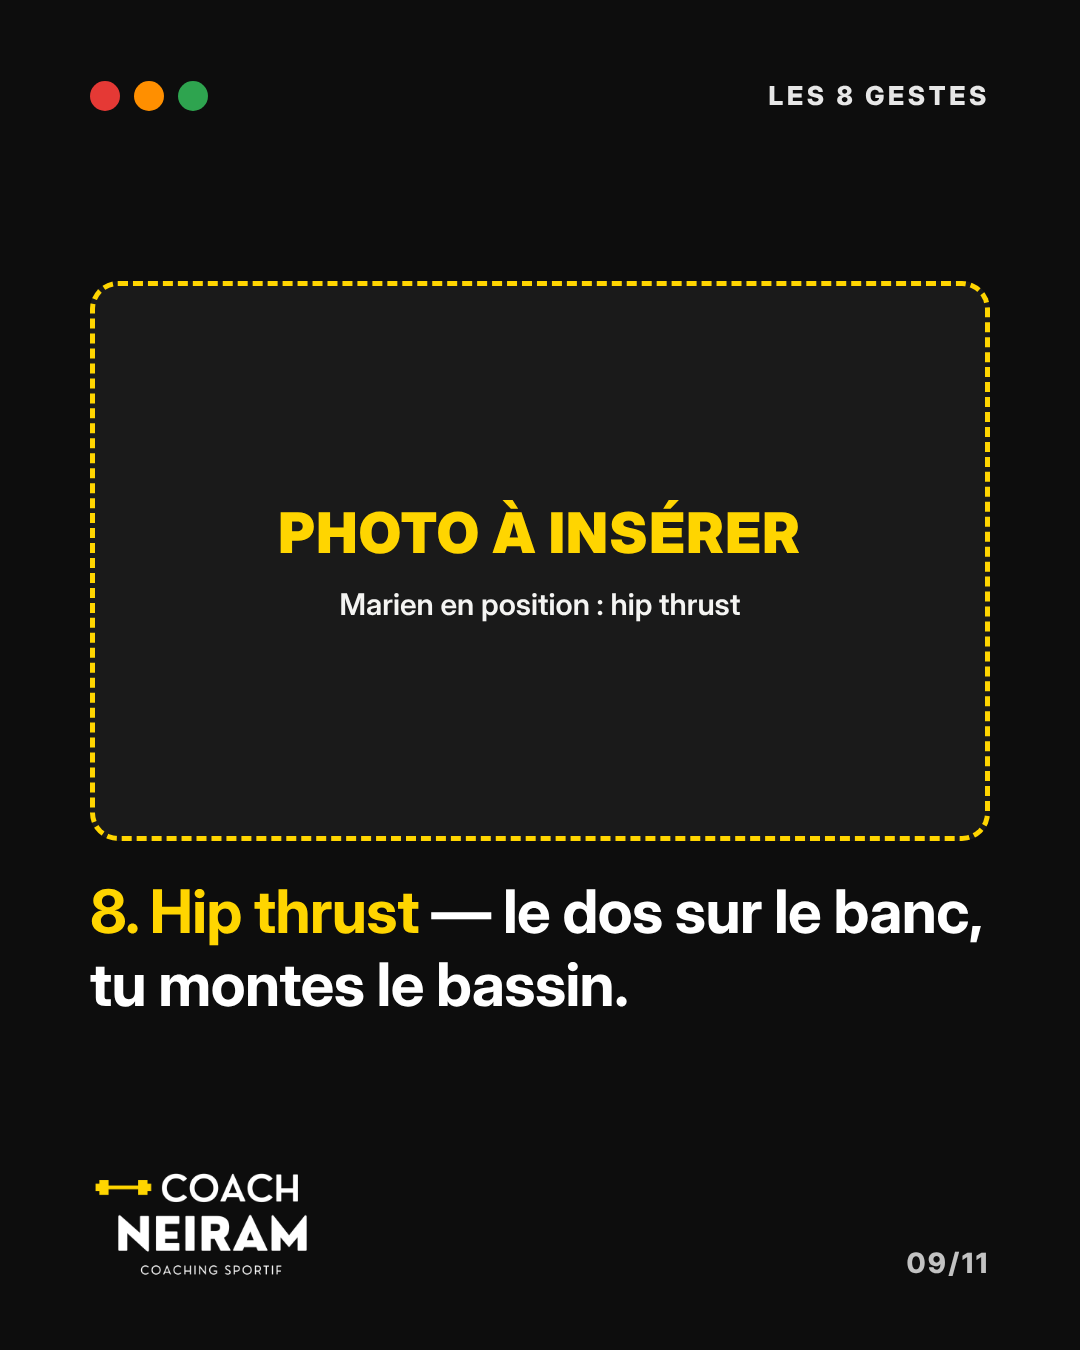
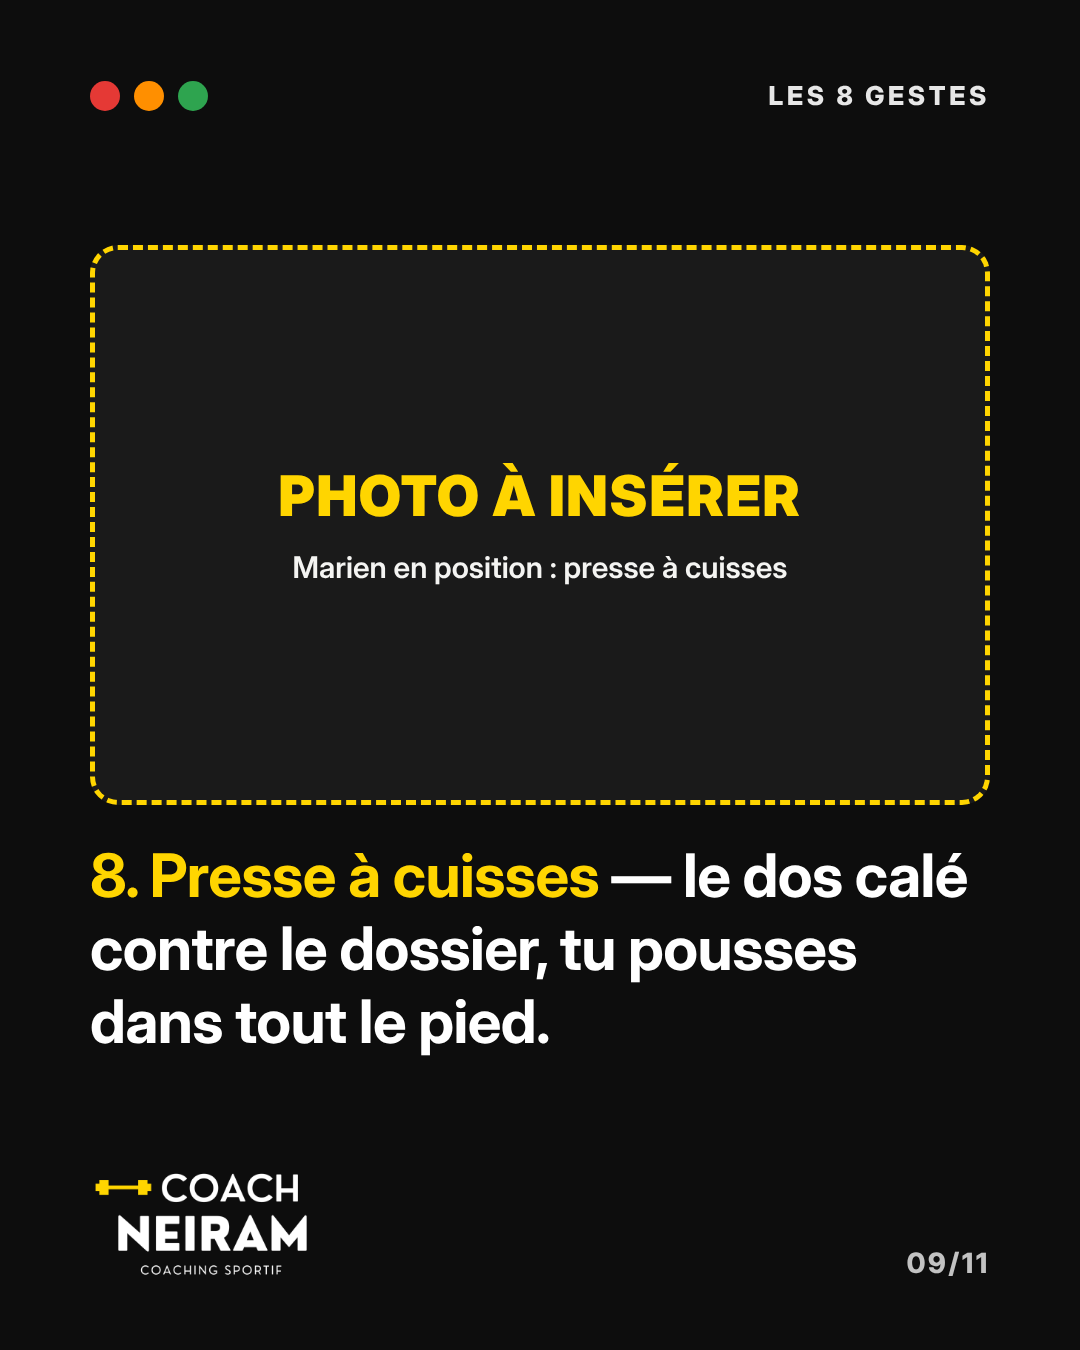
Feu Vert : geste n° 8 « Presse à cuisses » à la place du hip thrust
Décision de Marien du 18/11/2026.
- feu-vert.html : liste des 8 gestes, Passeport d'exemple, semaine 3 du déroulé.
- feu-vert/visuels/P06_09.png : slide 9 du carrousel « Les 8 gestes » régénérée (même gabarit 1080 × 1350).

Claude-Session: https://claude.ai/code/session_01F4D7Lo9ySbD2mJushm8BNZ

Changed region(s): [[0.0611, 0.1867, 0.9167, 0.7778], [0.2444, 0.3422, 0.7639, 0.4667]]

diff --git a/feu-vert.html b/feu-vert.html
@@ -395,7 +395,7 @@
       <li><span class="name">Fente</span><span class="lights is-r" role="img" aria-label="Démarre au rouge"><i class="r"></i><i class="o"></i><i class="g"></i></span></li>
       <li><span class="name">Gainage</span><span class="lights is-r" role="img" aria-label="Démarre au rouge"><i class="r"></i><i class="o"></i><i class="g"></i></span></li>
       <li><span class="name">Tirage (poulie)</span><span class="lights is-r" role="img" aria-label="Démarre au rouge"><i class="r"></i><i class="o"></i><i class="g"></i></span></li>
-      <li><span class="name">Hip thrust</span><span class="lights is-r" role="img" aria-label="Démarre au rouge"><i class="r"></i><i class="o"></i><i class="g"></i></span></li>
+      <li><span class="name">Presse à cuisses</span><span class="lights is-r" role="img" aria-label="Démarre au rouge"><i class="r"></i><i class="o"></i><i class="g"></i></span></li>
     </ol>
 
     <h3>Comment un geste passe au vert :</h3>
@@ -437,7 +437,7 @@
           <li>Fente <span class="lights is-o" role="img" aria-label="orange"><i class="r"></i><i class="o"></i><i class="g"></i></span></li>
           <li>Gainage <span class="lights is-o" role="img" aria-label="orange"><i class="r"></i><i class="o"></i><i class="g"></i></span></li>
           <li>Tirage (poulie) <span class="lights is-r" role="img" aria-label="rouge"><i class="r"></i><i class="o"></i><i class="g"></i></span></li>
-          <li>Hip thrust <span class="lights is-r" role="img" aria-label="rouge"><i class="r"></i><i class="o"></i><i class="g"></i></span></li>
+          <li>Presse à cuisses <span class="lights is-r" role="img" aria-label="rouge"><i class="r"></i><i class="o"></i><i class="g"></i></span></li>
         </ul>
         <div class="level">
           <div class="lv-top"><span>3 gestes au vert</span><span>Niveau 2 — Bases</span></div>
@@ -499,7 +499,7 @@
     <ol class="timeline">
       <li><span class="wk" aria-hidden="true">S1</span><h3>Semaine 1 — Point de départ.</h3><p>Accès au programme dans l'application, présentation de ton binôme et de tes objectifs de départ (premier check-in le lundi 25 janvier). Tu filmes tes premiers essais. Les 8 gestes démarrent au rouge. Mission 1 : heure creuse.</p><div class="chips"><span class="chip y">Mission 1</span></div></li>
       <li><span class="wk" aria-hidden="true">S2</span><h3>Semaine 2 — Gestes 1 à 4.</h3><p>Premières corrections vidéo sur squat gobelet, soulevé de terre roumain, rowing et développé. Live collectif de la semaine sur le placement.</p></li>
-      <li><span class="wk" aria-hidden="true">S3</span><h3>Semaine 3 — Gestes 5 à 8.</h3><p>Corrections sur fente, gainage, tirage poulie et hip thrust. Mission 2 : zone principale.</p><div class="chips"><span class="chip y">Mission 2</span></div></li>
+      <li><span class="wk" aria-hidden="true">S3</span><h3>Semaine 3 — Gestes 5 à 8.</h3><p>Corrections sur fente, gainage, tirage poulie et presse à cuisses. Mission 2 : zone principale.</p><div class="chips"><span class="chip y">Mission 2</span></div></li>
       <li><span class="wk" aria-hidden="true">S4</span><h3>Semaine 4 — Premiers verts.</h3><p>La charge augmente uniquement sur les gestes validés. Une séance bonus s'ajoute. Mission 3 : demander un poste.</p><div class="chips"><span class="chip y">Mission 3</span><span class="chip">+1 séance bonus</span></div></li>
       <li><span class="wk" aria-hidden="true">S5</span><h3>Semaine 5 — Consolidation.</h3><p>Les gestes encore orange reçoivent la priorité des corrections. Mission 4 : heure pleine.</p><div class="chips"><span class="chip y">Mission 4</span></div></li>
       <li><span class="wk" aria-hidden="true">S6</span><h3>Semaine 6 — Bilan.</h3><p>Vidéo de fin sur tes gestes, point sur ton Passeport et ton niveau, et je te dis honnêtement ce qui te serait le plus utile ensuite.</p></li>
